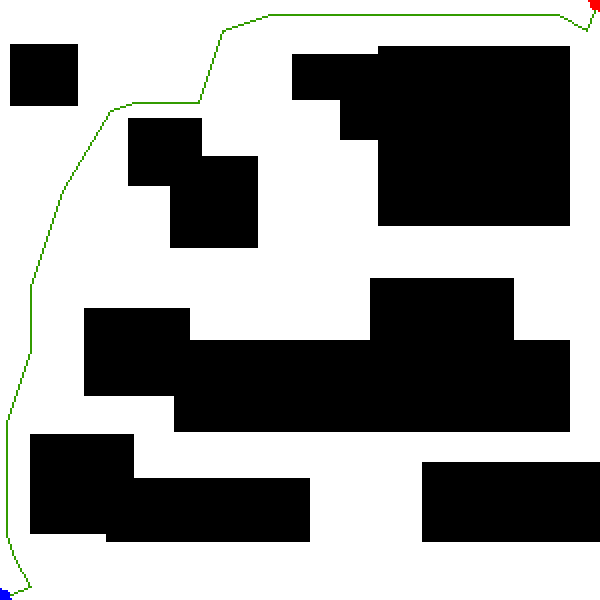
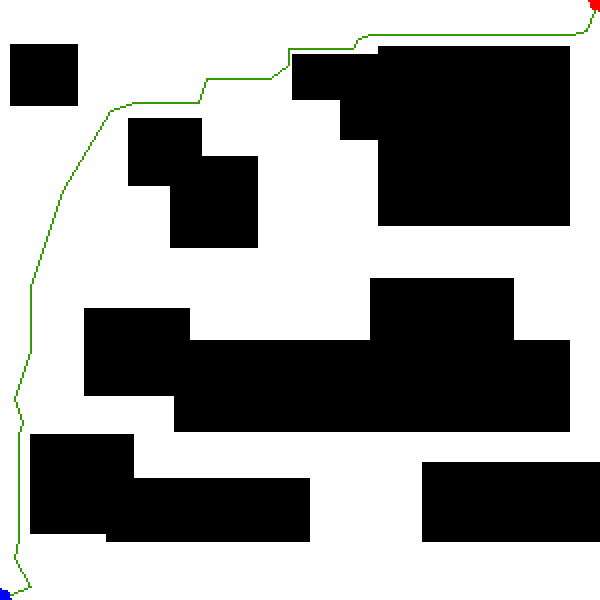
float to int coord quadtree a*

diff --git a/quadtree_astar.py b/quadtree_astar.py
@@ -131,6 +131,10 @@ def find_quadrant(V, pos):
     return quad_num
 
 
+def floatcoord2int(coord):
+    return (int(coord[0]), int(coord[1]))
+
+
 def astar(graph, startPos, endPos):
     V, E, W = graph[0], graph[1], graph[2]
 
@@ -159,12 +163,12 @@ def astar(graph, startPos, endPos):
         if (currentNum == endQuadNum):
             path = []
             path.append(endPos)
-            path.append(current.element.get())
+            path.append(floatcoord2int(current.element.get()))
             trace = current.parent
             while (not(trace is None)):
-                path.append(trace.element.get())
+                path.append(floatcoord2int(trace.element.get()))
                 trace = trace.parent
-            path.append(startPos)
+            path.append(floatcoord2int(startPos))
             path.reverse()
             return (path, closed)
 
